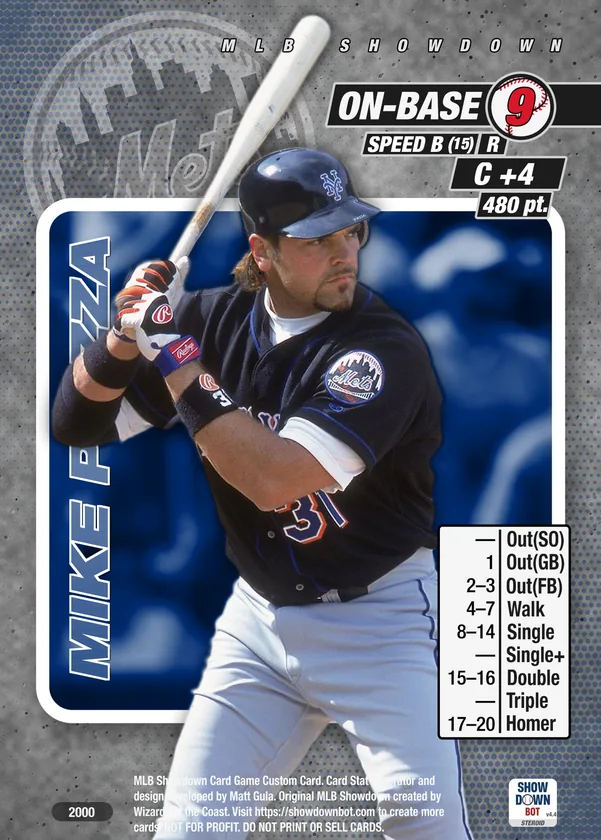
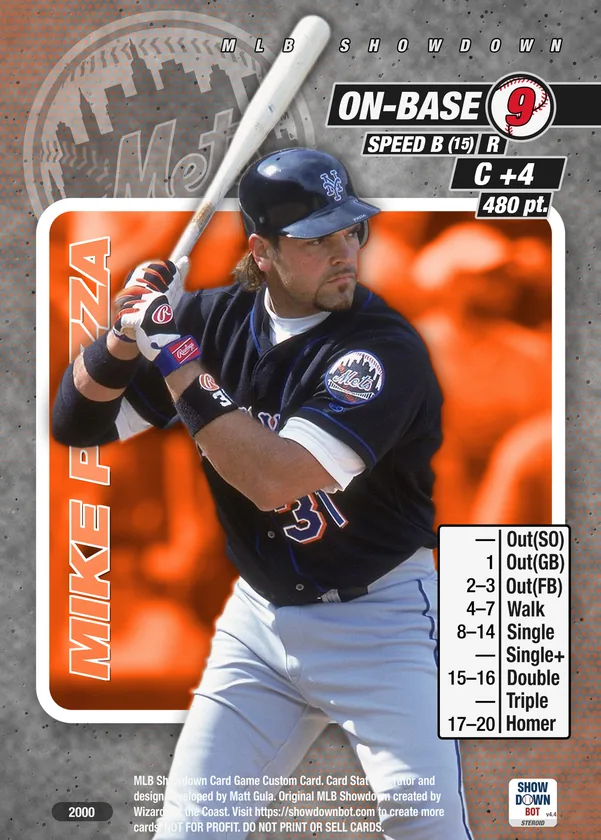
Add Booster Parallel

diff --git a/frontend/src/components/customs/cardStyle.ts b/frontend/src/components/customs/cardStyle.ts
@@ -86,6 +86,7 @@ export const imageParallelOptions: ImageParallelOption[] = [
 
     { "label": "Team Color Blast", "value": "TCB", ...parallelSample('team-color-blast'), "description": "A white background with a burst of team color behind the player.", "group": "Backgrounds" },
     { "label": "Breakout", "value": "BREAKOUT", ...parallelSample('breakout'), "description": "The player bursts out of a team-color photo frame on concrete with halftone dots.", "group": "Backgrounds" },
+    { "label": "Booster", "value": "BOOSTER", ...parallelSample('booster'), "description": "Faded team-color dots on silver with curved lines framing the background, like booster pack art.", "group": "Backgrounds" },
     { "label": "Radial", "value": "RAD", ...parallelSample('radial'), "description": "Team-color rays radiating from behind the player.", "group": "Backgrounds" },
     { "label": "White Smoke", "value": "WS", ...parallelSample('white-smoke'), "description": "A clean white, smoky background.", "group": "Backgrounds" },
     { "label": "Flames", "value": "FLAMES", ...parallelSample('flames'), "description": "Replaces the background with fire.", "group": "Backgrounds" },

diff --git a/frontend/src/components/customs/CardStyleFields.tsx b/frontend/src/components/customs/CardStyleFields.tsx
@@ -24,7 +24,7 @@ import { Eyebrow } from '../shared/Eyebrow';
 import { NewBadge } from '../shared/NewBadge';
 
 /** Parallels added recently enough to flag in the dropdown menu */
-const NEW_PARALLELS = new Set(['BREAKOUT']);
+const NEW_PARALLELS = new Set(['BREAKOUT', 'BOOSTER']);
 
 const parallelOptionsWithBadges = imageParallelOptions.map(option =>
     NEW_PARALLELS.has(option.value) ? { ...option, trailing: <NewBadge /> } : option

diff --git a/frontend/src/components/gallery/GalleryTabContent.tsx b/frontend/src/components/gallery/GalleryTabContent.tsx
@@ -69,6 +69,7 @@ const PARALLEL_LABELS: Record<string, string> = {
     RF: 'Rainbow Foil',
     TCB: 'Team Color Blast',
     BREAKOUT: 'Breakout',
+    BOOSTER: 'Booster',
     GALAXY: 'Galaxy',
     GOLD: 'Gold',
     GOLDRUSH: 'Gold Rush',

diff --git a/mlb_showdown_bot/core/card/showdown_player_card.py b/mlb_showdown_bot/core/card/showdown_player_card.py
@@ -3301,8 +3301,10 @@ class ShowdownPlayerCard(BaseModel):
             name_text, color = self._player_name_text_image()
             name_image_component = TemplateImageComponent.PLAYER_NAME
             name_paste_location = self.set.template_component_paste_coordinates(component=name_image_component, special_edition=self.image.special_edition)
+            if self.set == Set._2000 and not self.set.is_special_edition_name_styling(self.image.special_edition):
+                name_paste_location = (name_paste_location[0] + self.image.parallel.name_x_shift_2000, name_paste_location[1])
             is_special_style = self.set.is_special_edition_name_styling(self.image.special_edition)
-            if self.set.is_00_01 and not is_special_style:
+            if self.set.is_00_01 and not is_special_style and self.image.parallel != ImageParallel.BOOSTER: # BOOSTER'S NAME IS SEE-THROUGH, A SHADOW WOULD SHOW THROUGH IT
                 # ADD BACKGROUND BLUR EFFECT FOR 2001 CARDS
                 name_text_blurred = name_text.filter(ImageFilter.BLUR)
                 shadow_paste_coordinates = (name_paste_location[0] + 6, name_paste_location[1] + 6)
@@ -4142,6 +4144,15 @@ class ShowdownPlayerCard(BaseModel):
                 padding = 0
                 is_y_centered = True
                 overlay_image_path = self._template_img_path('2000-Name-Text-Background')
+                if self.image.parallel == ImageParallel.BOOSTER:
+                    # GHOSTED ITALIC LETTERS: A SEE-THROUGH WHITE FILL WITH A THIN LIGHT OUTLINE, SO THE NAME SITS QUIETLY IN THE BACKDROP
+                    red, green, blue, _ = self._team_color_rgbs(is_secondary_color=self.image.use_secondary_color, ignore_team_overrides=True, team_override=self.team_override_for_images)
+                    name_font_path = helvetica_neue_lt_path
+                    name_size = 150
+                    name_color = (255, 255, 255, 60)
+                    has_border = True
+                    border_color = tuple(int(c + (255 - c) * 0.75) for c in (red, green, blue)) + (200,)
+                    overlay_image_path = None
             case Set._2001:
                 name_rotation = 90
                 name_alignment = "left"
@@ -5560,6 +5571,7 @@ class ShowdownPlayerCard(BaseModel):
         is_img_download_error = False
         breakout_background: Optional[Image.Image] = None
         breakout_player: Optional[Image.Image] = None
+        booster_background_found = False
         for img_component in self.image_component_ordered_list:
             
             # ADD SILHOUETTE IF NECESSARY
@@ -5809,6 +5821,16 @@ class ShowdownPlayerCard(BaseModel):
 
             # PASTE IMAGE
             player_img_components.append((image, paste_coordinates))
+
+            # BOOSTER: THE BACKGROUND PHOTO SHOWS THROUGH THE MIDDLE, SO THE FOIL AND LINES GO RIGHT OVER IT
+            if self.image.parallel == ImageParallel.BOOSTER and img_component == PlayerImageComponent.BACKGROUND:
+                booster_background_found = True
+                player_img_components.append((self._booster_frame_image(size=card_size, background=image), (0,0)))
+
+        # BOOSTER: NO BACKGROUND PHOTO FOUND, THE MIDDLE FALLS BACK TO A TEAM COLOR TONE
+        if self.image.parallel == ImageParallel.BOOSTER and not booster_background_found:
+            card_size = self.set.card_size_bordered if self.image.is_bordered else self.set.card_size
+            player_img_components.insert(0, (self._booster_frame_image(size=card_size, background=None), (0,0)))
 
         # BREAKOUT: FRAME GOES UNDER EVERY OTHER LAYER SO THE PLAYER BREAKS OUT OF IT
         if self.image.parallel == ImageParallel.BREAKOUT:
@@ -6956,6 +6978,166 @@ class ShowdownPlayerCard(BaseModel):
         card.alpha_composite(name_image, dest=(photo_box[0] + border - name_padding, frame_box[1] - name_padding))
 
         return card
+
+    def _booster_frame_image(self, size:tuple[int,int], background:Optional[Image.Image] = None) -> Image.Image:
+        """Layer for the Booster parallel, recreating the 2002 booster pack art: faded halftone dots on silver on the outside
+        with two gently curved lines in team color framing the middle, which is left see-through for the background photo.
+
+        Args:
+          size: Size of the card.
+          background: Player background image, already cropped to the card. When missing, the middle is a team color gradient.
+
+        Returns:
+          PIL Image ('RGBA') of the full card layer.
+        """
+
+        width, height = size
+
+        # SETS WHOSE TEMPLATE TAKES UP THE RIGHT SIDE: DRAW IN THE OPEN WIDTH ON THE LEFT, THEN EXTEND THE EDGE OVER THE REST
+        content_width = int(width * self.set.booster_content_width)
+        if content_width >= width:
+            return self._booster_content_image(size=size, background=background)
+        content_background = background.crop((0, 0, content_width, height)) if background else None
+        content_layer = self._booster_content_image(size=(content_width, height), background=content_background)
+        layer = Image.new('RGBA', size)
+        layer.paste(content_layer, (0, 0))
+        layer.paste(content_layer.crop((content_width - 1, 0, content_width, height)).resize((width - content_width, height)), (content_width, 0))
+        return layer
+
+    def _booster_content_image(self, size:tuple[int,int], background:Optional[Image.Image] = None) -> Image.Image:
+        """Booster parallel's dotted backdrop, lines, and photo, drawn across the full width given.
+
+        Args:
+          size: Size of the area to draw.
+          background: Player background image, already cropped to the area. When missing, the middle is a team color gradient.
+
+        Returns:
+          PIL Image ('RGBA') of the layer.
+        """
+
+        width, height = size
+        edge_inset, bulge = 0.12, 0.12 # LINES START AT THE EDGES AND PINCH IN TOWARD THE MIDDLE
+        line_width, trim_width = 0.030, 0.006 # TEAM COLOR LINE, WHITE TRIM ON BOTH SIDES
+
+        def band(inner:float, outer:float) -> Image.Image:
+            return self._booster_band_mask(size=size, edge_inset=edge_inset, bulge=bulge, inner=inner, outer=outer)
+
+        # DOTTED BACKDROP, THEN THE PHOTO FILLS THE MIDDLE. EVERYTHING OUTSIDE THE LINES IS BACKDROP
+        # OFFSETS ARE MEASURED FROM WHERE THE PHOTO STARTS: POSITIVE GOES TOWARD THE MIDDLE OF THE CARD, NEGATIVE TOWARD THE EDGE
+        layer = self._booster_dots_image(size=size)
+        if background is None:
+            gradient = Image.linear_gradient('L').resize(size).transpose(Image.Transpose.FLIP_TOP_BOTTOM)
+            background = self._team_toned_image(gradient)
+        middle_mask = band(inner=0.0, outer=0.5)
+        layer.paste(background, mask=ImageChops.multiply(middle_mask, background.getchannel('A')))
+
+        # SHADOW ON THE BACKDROP, THEN WHITE TRIM AROUND THE TEAM COLOR LINE
+        total_width = line_width + trim_width * 2
+        shadow_mask = ImageChops.offset(band(inner=0.0, outer=-total_width), 0, int(height * 0.004)).filter(ImageFilter.GaussianBlur(width * 0.006)).point(lambda a: int(a * 0.5))
+        layer.paste((0, 0, 0, 255), mask=shadow_mask)
+        layer.paste((255, 255, 255, 255), mask=band(inner=0.0, outer=-total_width))
+        line_color = self._team_color_rgbs(is_secondary_color=self.image.use_secondary_color, ignore_team_overrides=True, team_override=self.team_override_for_images)
+        layer.paste(line_color[:3] + (255,), mask=band(inner=-trim_width, outer=-trim_width - line_width))
+
+        return layer
+
+    def _booster_band_mask(self, size:tuple[int,int], edge_inset:float, bulge:float, inner:float, outer:float) -> Image.Image:
+        """Anti-aliased mask of the area between the Booster's curved lines, or a strip along them.
+
+        Each line's distance from its card edge follows a sine arch, so it pinches in toward the middle of the card.
+        The two offsets set the area's boundaries relative to the line, as a fraction of card width.
+
+        Args:
+          size: Size of the mask.
+          edge_inset: Distance of the lines from the card edges at the top and bottom, as a fraction of card width.
+          bulge: How much further in the lines are at the middle of the card, as a fraction of card width.
+          inner: One boundary of the area. Positive is toward the middle of the card, negative toward the card edge.
+          outer: The other boundary. inner=0.0, outer=0.5 is the whole middle (the sides meet at the center).
+
+        Returns:
+          PIL Image ('L') mask.
+        """
+
+        width, height = size
+        supersample = 2
+        steps = 120
+
+        def edge_x(y_fraction:float, offset:float) -> float:
+            return (edge_inset + bulge * math.sin(math.pi * y_fraction) + offset) * width * supersample
+
+        # ONE POLYGON PER SIDE. THE LEFT SIDE ENDS ARE OFFSET TOWARD THE LEFT EDGE, THE RIGHT SIDE MIRRORS IT
+        mask = Image.new('L', (width * supersample, height * supersample), 0)
+        draw = ImageDraw.Draw(mask)
+        ys = [(i / steps) for i in range(steps + 1)]
+        for is_right in [False, True]:
+            near = [(edge_x(y, inner), y) for y in ys]
+            far = [(edge_x(y, outer), y) for y in reversed(ys)]
+            points = [((width * supersample - x) if is_right else x, y * height * supersample) for x, y in near + far]
+            draw.polygon(points, fill=255)
+
+        return mask.resize(size, resample=Image.Resampling.LANCZOS)
+
+    def _booster_dots_image(self, size:tuple[int,int]) -> Image.Image:
+        """Outside of the Booster lines: smooth silver blending into the team color toward the bottom and darkening toward the card edges,
+        covered in round, faded halftone dots that fade out toward the bottom.
+
+        Args:
+          size: Size of the image.
+
+        Returns:
+          PIL Image ('RGBA') of the dotted backdrop.
+        """
+
+        width, height = size
+        is_dark = self.image.is_dark_mode
+        base_gray = 90 if is_dark else 185
+
+        # SOFT SILVER THAT BLENDS TO THE TEAM COLOR DOWN THE CARD, DARKER TOWARD EITHER SIDE
+        red, green, blue, _ = self._team_color_rgbs(is_secondary_color=self.image.use_secondary_color, ignore_team_overrides=True, team_override=self.team_override_for_images)
+        dark_color = (int(red * 0.35), int(green * 0.35), int(blue * 0.35))
+        horizontal = Image.linear_gradient('L').rotate(90).resize(size) # 0 LEFT TO 255 RIGHT
+        edge_strength = ImageChops.lighter(horizontal, horizontal.transpose(Image.Transpose.FLIP_LEFT_RIGHT)) # 128 MIDDLE, 255 AT EITHER EDGE
+        edge_strength = edge_strength.point(lambda v: int(max(v - 150, 0) / 105 * 255 * 0.55))
+        backdrop = Image.new('RGBA', size, (base_gray, base_gray, base_gray + 8, 255))
+
+        # VERTICAL BLEND: SILVER AT THE TOP TO THE TEAM COLOR AT THE BOTTOM
+        blend_strength = Image.linear_gradient('L').resize(size).point(lambda v: int(v * 0.8))
+        backdrop.paste((red, green, blue, 255), mask=blend_strength)
+        backdrop.paste(dark_color + (255,), mask=edge_strength)
+
+        # FADED DOTS, A LIGHT TINT OF THE TEAM COLOR SO THEY SHOW ON THE DARKER SIDES
+        dots_mask = self._halftone_grid_mask(size=size).point(lambda a: int(a * 0.30))
+        backdrop.paste(tuple(int(c + (255 - c) * 0.6) for c in (red, green, blue)) + (255,), mask=dots_mask)
+        return backdrop
+
+    def _halftone_grid_mask(self, size:tuple[int,int]) -> Image.Image:
+        """Mask of evenly sized, round halftone dots in a staggered grid that fade out from the top of the card to the bottom.
+
+        Args:
+          size: Size of the mask.
+
+        Returns:
+          PIL Image ('L') mask.
+        """
+
+        width, height = size
+        supersample = 3 # DRAW LARGER AND SCALE DOWN SO THE DOTS STAY ROUND AND SMOOTH
+        mask = Image.new('L', (width * supersample, height * supersample), 0)
+        draw = ImageDraw.Draw(mask)
+        spacing = width * 0.026 * supersample
+        radius = spacing * 0.24 # SMALL ENOUGH THAT NEIGHBORS NEVER TOUCH, WHICH READS AS HEXAGONS
+        row_count = int(height * supersample / (spacing * 0.5)) + 2
+        for row in range(row_count):
+            y = row * spacing * 0.5
+            x_start = -spacing + (spacing * 0.5 if row % 2 else 0) # STAGGER EVERY OTHER ROW
+            for column in range(int(width * supersample / spacing) + 3):
+                x = x_start + column * spacing
+                draw.ellipse((x - radius, y - radius, x + radius, y + radius), fill=255)
+        mask = mask.resize(size, resample=Image.Resampling.LANCZOS)
+
+        # FADE FROM FULL STRENGTH AT THE TOP TO FAINT AT THE BOTTOM
+        fade = Image.linear_gradient('L').resize(size).point(lambda v: int(255 * (1 - 0.8 * v / 255)))
+        return ImageChops.multiply(mask, fade)
 
     def _breakout_name_image(self, length:int) -> tuple[Image.Image, int]:
         """Player's name for the Breakout backdrop: vertical, team toned metallic letters with a white outline

diff --git a/mlb_showdown_bot/core/card/images.py b/mlb_showdown_bot/core/card/images.py
@@ -364,6 +364,7 @@ class ImageParallel(str, Enum):
     FLAMES = "FLAMES"
     TEAM_COLOR_BLAST = "TCB"
     BREAKOUT = "BREAKOUT"
+    BOOSTER = "BOOSTER"
     MYSTERY = "MYSTERY"
     MOONLIGHT = "MOONLIGHT"
     GALAXY = "GALAXY"
@@ -388,7 +389,7 @@ class ImageParallel(str, Enum):
             case "GOLD_FRAME": return { PlayerImageComponent.GOLD_FRAME: PlayerImageComponent.GOLD_FRAME.name, PlayerImageComponent.BACKGROUND: None }
             case "WHITE_SMOKE": return { PlayerImageComponent.WHITE_SMOKE: PlayerImageComponent.WHITE_SMOKE.name, PlayerImageComponent.BACKGROUND: None }
             case "FLAMES": return { PlayerImageComponent.FLAMES: PlayerImageComponent.FLAMES.name }
-            case "BREAKOUT": return { PlayerImageComponent.BACKGROUND: None }
+            case "BREAKOUT" | "BOOSTER": return { PlayerImageComponent.BACKGROUND: None }
             case "TEAM_COLOR_BLAST": return { PlayerImageComponent.WHITE_CIRCLE: PlayerImageComponent.WHITE_CIRCLE.name, PlayerImageComponent.TEAM_LOGO: None, PlayerImageComponent.TEAM_COLOR: None, PlayerImageComponent.BACKGROUND: None }
             case "MOONLIGHT":
                 comps_dict = { PlayerImageComponent.MOONLIGHT: PlayerImageComponent.MOONLIGHT.name, PlayerImageComponent.BACKGROUND: None }
@@ -401,7 +402,7 @@ class ImageParallel(str, Enum):
     @property
     def special_components_replacements(self) -> dict[str,str]:
         match self.name:
-            case "SAPPHIRE" | "WHITE_SMOKE" | "FLAMES" | "TEAM_COLOR_BLAST" | "GOLD_RUSH" | "GOLD" | "GOLD_FRAME" | "MOONLIGHT" | "GALAXY" | "BREAKOUT": return { PlayerImageComponent.GLOW: PlayerImageComponent.SHADOW }
+            case "SAPPHIRE" | "WHITE_SMOKE" | "FLAMES" | "TEAM_COLOR_BLAST" | "GOLD_RUSH" | "GOLD" | "GOLD_FRAME" | "MOONLIGHT" | "GALAXY" | "BREAKOUT" | "BOOSTER": return { PlayerImageComponent.GLOW: PlayerImageComponent.SHADOW }
             case _: return {}
     
     @property
@@ -426,13 +427,25 @@ class ImageParallel(str, Enum):
     
     @property
     def hides_name_container_2000(self) -> bool:
-        return self.name in ['BREAKOUT']
+        return self.name in ['BREAKOUT', 'BOOSTER']
+
+    @property
+    def name_x_shift_2000(self) -> int:
+        """How far the 2000 player name moves horizontally, for parallels that put it somewhere other than the name container."""
+        match self.name:
+            case 'BOOSTER': return -70 # INTO THE LEFT SIDE OF THE BACKGROUND, OUTSIDE THE LINE
+            case _: return 0
 
     @property
     def name_container_suffix_2000(self) -> str:
         match self.name:
             case 'GOLD' | 'GOLD_RUSH' | 'GOLD_FRAME': return '-GOLD'
             case _: return ''
+
+    @property
+    def is_team_colored(self) -> bool:
+        """Parallels that are built from the card's team color, so primary vs. secondary coloring changes how they look."""
+        return self.name in ['TEAM_COLOR_BLAST', 'BREAKOUT', 'BOOSTER']
 
     @property
     def has_team_color_template_04_05(self) -> bool:

diff --git a/mlb_showdown_bot/scripts/parallel_samples.py b/mlb_showdown_bot/scripts/parallel_samples.py
@@ -3,7 +3,8 @@ Renders one sample card per image parallel and saves two images of each to the f
 crop the custom card builder's Image Parallel dropdown shows as a preview, and the full card shown
 when hovering that preview. Base (NONE) is skipped since it has no preview.
 
-Every sample uses the same player, year, and set so the parallel is the only thing that changes.
+Every sample uses the same player, year, and set so the parallel is the only thing that changes. Parallels built from the
+team color are shown in the secondary color, to show off something other than the default.
 
 Usage:
     python -m mlb_showdown_bot.scripts.parallel_samples
@@ -45,6 +46,7 @@ class ParallelSampleGenerator:
     name: str = 'Mike Piazza'
     year: str = '2000'
     set: str = '2001'
+    team_colored_coloring: str = 'SECONDARY'
     output_folder: str = FRONTEND_OUTPUT_FOLDER
     variants: tuple[SampleVariant, ...] = (ZOOMED_VARIANT, FULL_CARD_VARIANT)
     parallels: list[ImageParallel] = field(default_factory=lambda: [p for p in ImageParallel if p != ImageParallel.NONE])
@@ -62,6 +64,7 @@ class ParallelSampleGenerator:
             year=self.year,
             set=self.set,
             image_parallel=parallel.value,
+            image_coloring=self.team_colored_coloring if parallel.is_team_colored else 'PRIMARY',
             image_output_folder_path=render_folder,
             image_output_file_name=file_name,
             image_file_format=ImageFileFormat.PNG,

diff --git a/mlb_showdown_bot/core/card/sets.py b/mlb_showdown_bot/core/card/sets.py
@@ -1234,6 +1234,14 @@ class Set(str, Enum):
             case '2004' | '2005': return BreakoutFrameBounds(left=0.05, right=0.95, bottom=0.73, min_top=0.06, max_top=0.22)
             case 'CLASSIC' | 'EXPANDED': return BreakoutFrameBounds(left=0.06, right=0.94, bottom=0.70, min_top=0.08, max_top=0.25)
 
+    @property
+    def booster_content_width(self) -> float:
+        """Fraction of the card's width, from the left, the Booster parallel's lines are centered in. 02/03 templates take up the right side."""
+        match self.value:
+            case '2002': return 0.82
+            case '2003': return 0.86
+            case _: return 1.0
+
     def player_image_components_list(self, is_special:bool=False) -> list[PlayerImageComponent]:
         if is_special:
             match self.value:
